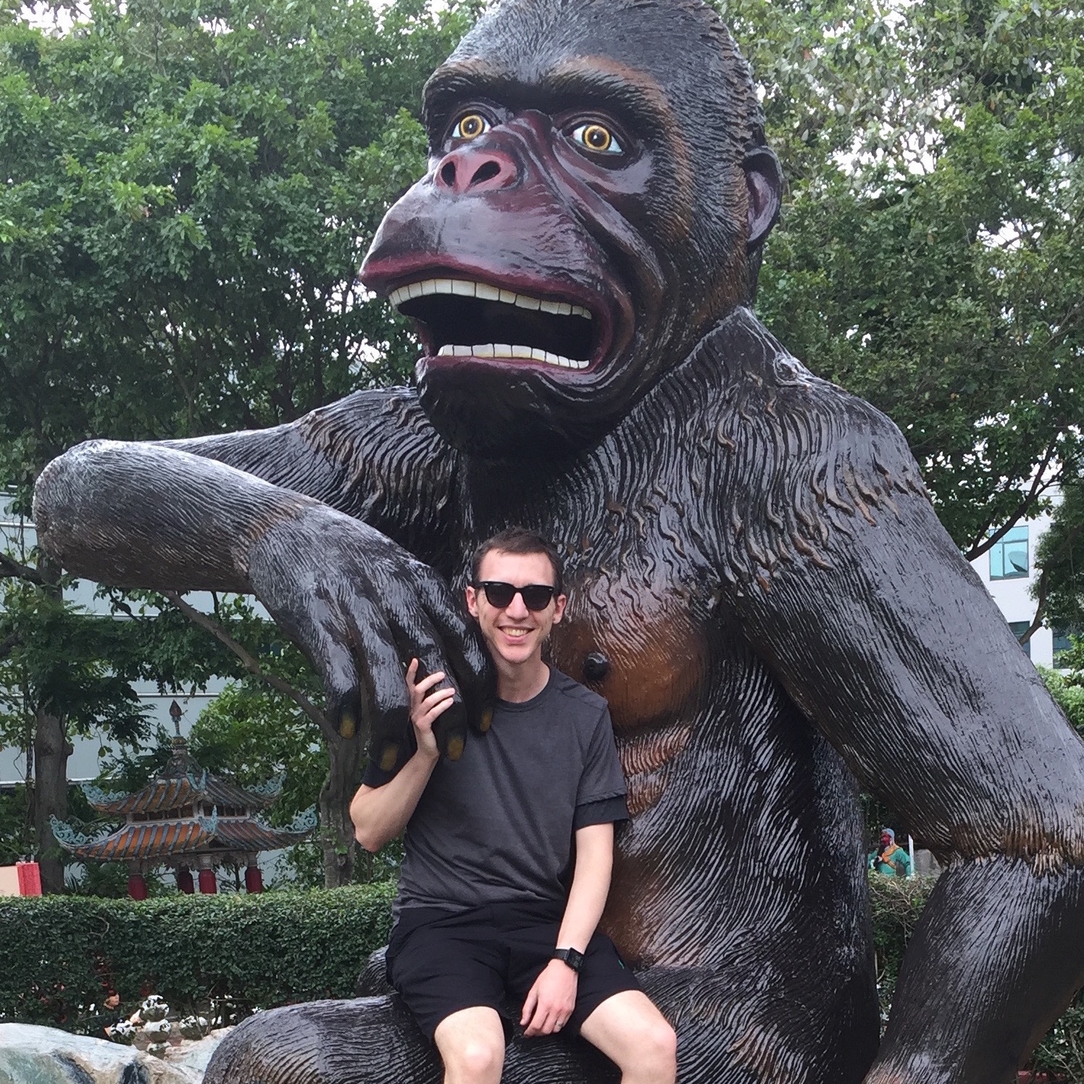
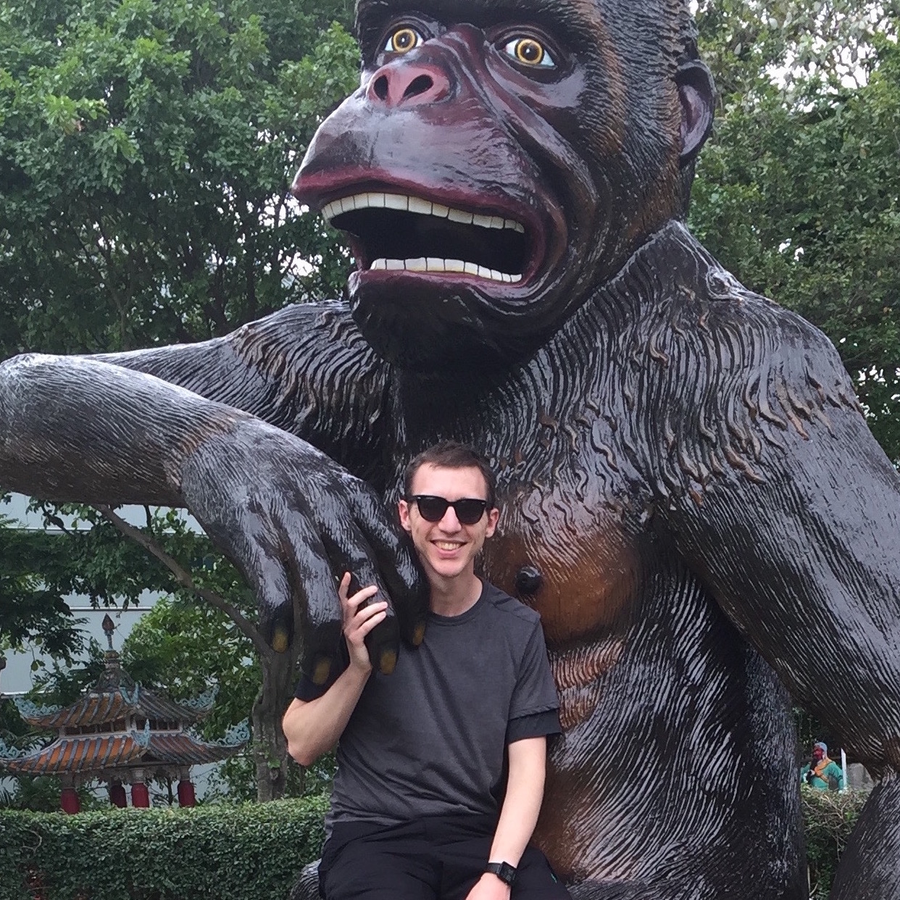
people update

diff --git a/index.html b/index.html
@@ -130,7 +130,6 @@
                     <h2>People</h2>
             </div>
         </div>
-        <div class="row">
             <div class="col-md-6">
                 <a class="portfolio-item" href="http://knoesis.org/people/derek/">
                     <div class="portfolio-thumb">
@@ -145,7 +144,6 @@
                 </a>
                 <!-- .portfolio-item -->
             </div>
-        </div>
         <div class="row">
             <div class="col-md-6">
                 <a class="portfolio-item" href="http://www.wright.edu/~xie.25/">
@@ -206,7 +204,7 @@
             <div class="col-md-6">
                 <a class="portfolio-item" href="#">
                     <div class="portfolio-thumb">
-                        <img src="img/bart.png" alt="">
+                        <img src="img/walter2.png" alt="">
                     </div>
 
                     <div class="portfolio-info">
@@ -249,7 +247,7 @@
             <div class="col-md-6">
                 <a class="portfolio-item" href="#">
                     <div class="portfolio-thumb">
-                        <img src="img/lisa.png" alt="">
+                        <img src="img/man.jpg" alt="">
                     </div>
 
                     <div class="portfolio-info">
